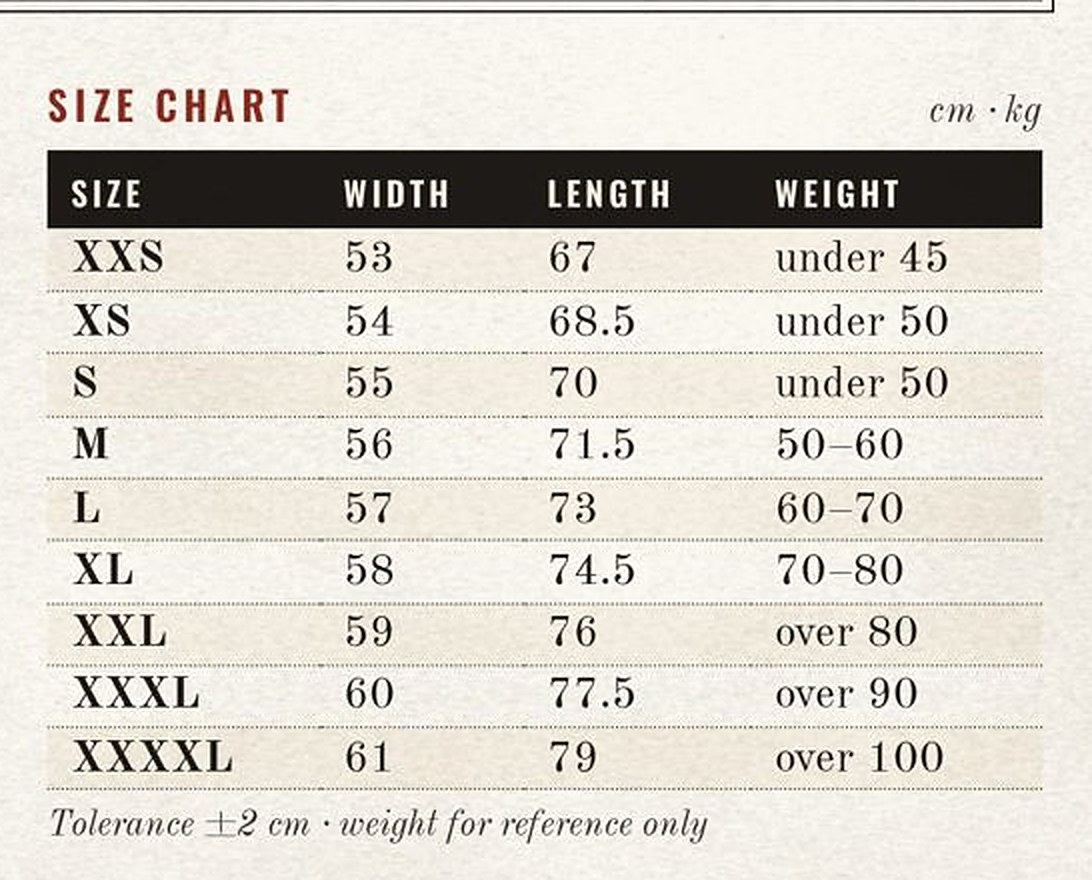
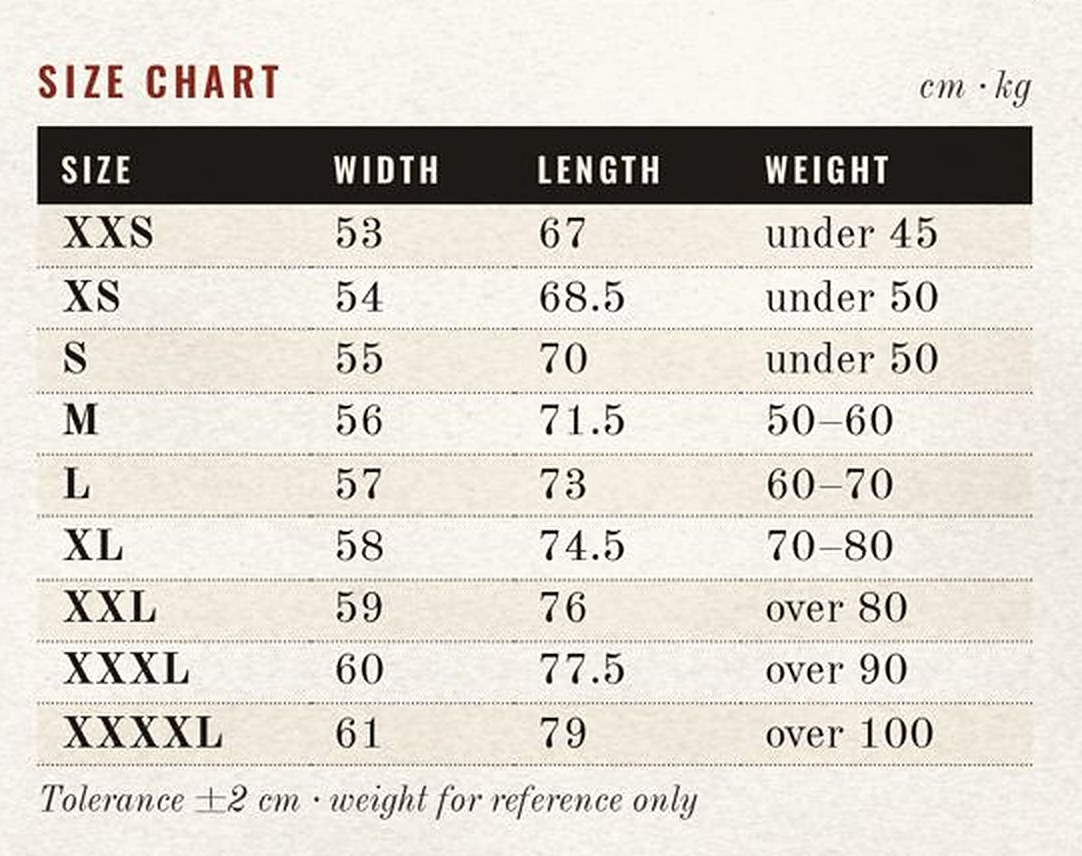
T-shirt: add front/back mockups, Megatix CTA, 12 Feb deadline

Changed region(s): [[0.0305, 0.0607, 0.976, 0.972], [0.0, 0.0, 0.976, 0.0304]]

diff --git a/index.html b/index.html
@@ -230,7 +230,7 @@
                 </div>
               </div>
               <p class="pricing-footnote">All prices are per person · USD amounts are approximate.</p>
-              <p class="tshirt-callout">👕 <strong>VLX 2027 T-shirt:</strong> pre-order and pick your size when you register — <a href="#tshirt">see the T-shirt &amp; size chart</a>.</p>
+              <p class="tshirt-callout">👕 <strong>VLX 2027 T-shirt:</strong> add one when you register, or order later on Megatix — order by <strong>12 February 2027</strong>. <a href="#tshirt">See the T-shirt &amp; size chart</a>.</p>
             </div>
 
             <!-- ============ REGISTRATION AROUND THE WORLD ============ -->
@@ -830,6 +830,17 @@
           <div class="tshirt-preorder-section">
             <h3 class="tshirt-preorder-title">VLX 2027 T-SHIRT — PRE-ORDER</h3>
 
+            <div class="tshirt-mockups">
+              <figure class="tshirt-mockup">
+                <img src="assets/tshirt-front.jpg" alt="VLX 2027 T-shirt, front — cream tee with the VLX 2027 logo and a dancing couple" loading="lazy" />
+                <figcaption>Front</figcaption>
+              </figure>
+              <figure class="tshirt-mockup">
+                <img src="assets/tshirt-back.jpg" alt="VLX 2027 T-shirt, back — The VLX Times newspaper-style print with live-music and dance illustrations" loading="lazy" />
+                <figcaption>Back</figcaption>
+              </figure>
+            </div>
+
             <div class="tshirt-content">
               <div class="tshirt-image-container">
                 <img src="assets/tshirt-size-chart.jpg" alt="VLX 2027 T-shirt size chart — width, length and weight for each size (XXS–XXXXL), in cm and kg" class="tshirt-image" loading="lazy" />
@@ -841,14 +852,16 @@
 
                 <div class="tshirt-info-list">
                   <p class="tshirt-info-item">👕 <strong>Price:</strong> 350,000 VND (≈ 13.5 USD) per T-shirt</p>
-                  <p class="tshirt-info-item">📅 <strong>Pre-order deadline:</strong> February 2027 (TBA)</p>
+                  <p class="tshirt-info-item">📅 <strong>Order by:</strong> 12 February 2027</p>
+                  <p class="tshirt-info-item">🛒 <strong>How:</strong> add one when you register, or order any time later</p>
                   <p class="tshirt-info-item">📦 <strong>Pick-up:</strong> At VLX 2027 · Hội An · March 19–21</p>
                 </div>
 
-                <p class="tshirt-note"><strong>Pre-order only — choose your size when you register.</strong></p>
+                <p class="tshirt-note"><strong>Pre-order only — pick your size when you order.</strong></p>
                 <p class="tshirt-disclaimer">Art by Hoàng Ngọc Trân (czatalia). Actual colour may vary slightly from the design image.</p>
 
-                <a class="tshirt-preorder-button" href="#registrations">Choose your size when you register</a>
+                <!-- TODO: point href at the Megatix T-shirt pre-order link -->
+                <a class="tshirt-preorder-button" href="#">Buy your T-shirt (Megatix)</a>
               </div>
             </div>
           </div>

diff --git a/styles.css b/styles.css
@@ -1212,6 +1212,38 @@ a {
   margin: 0 0 34px;
 }
 
+.tshirt-mockups {
+  display: grid;
+  grid-template-columns: repeat(2, 1fr);
+  gap: 30px;
+  max-width: 760px;
+  margin: 0 auto 34px;
+}
+
+.tshirt-mockup {
+  margin: 0;
+  border: 1px solid var(--rule);
+  padding: 6px;
+  background: var(--paper);
+  box-shadow: 3px 3px 0 var(--paper-3);
+}
+
+.tshirt-mockup img {
+  width: 100%;
+  display: block;
+}
+
+.tshirt-mockup figcaption {
+  font-family: var(--sans);
+  font-size: 0.66rem;
+  font-weight: 800;
+  letter-spacing: 0.28em;
+  text-transform: uppercase;
+  text-align: center;
+  padding: 12px 0 4px;
+  color: var(--ink-soft);
+}
+
 .tshirt-content {
   display: grid;
   grid-template-columns: 340px 1fr;
@@ -1308,6 +1340,10 @@ a {
   }
 
   .tshirt-content {
+    grid-template-columns: 1fr;
+  }
+
+  .tshirt-mockups {
     grid-template-columns: 1fr;
   }
 
